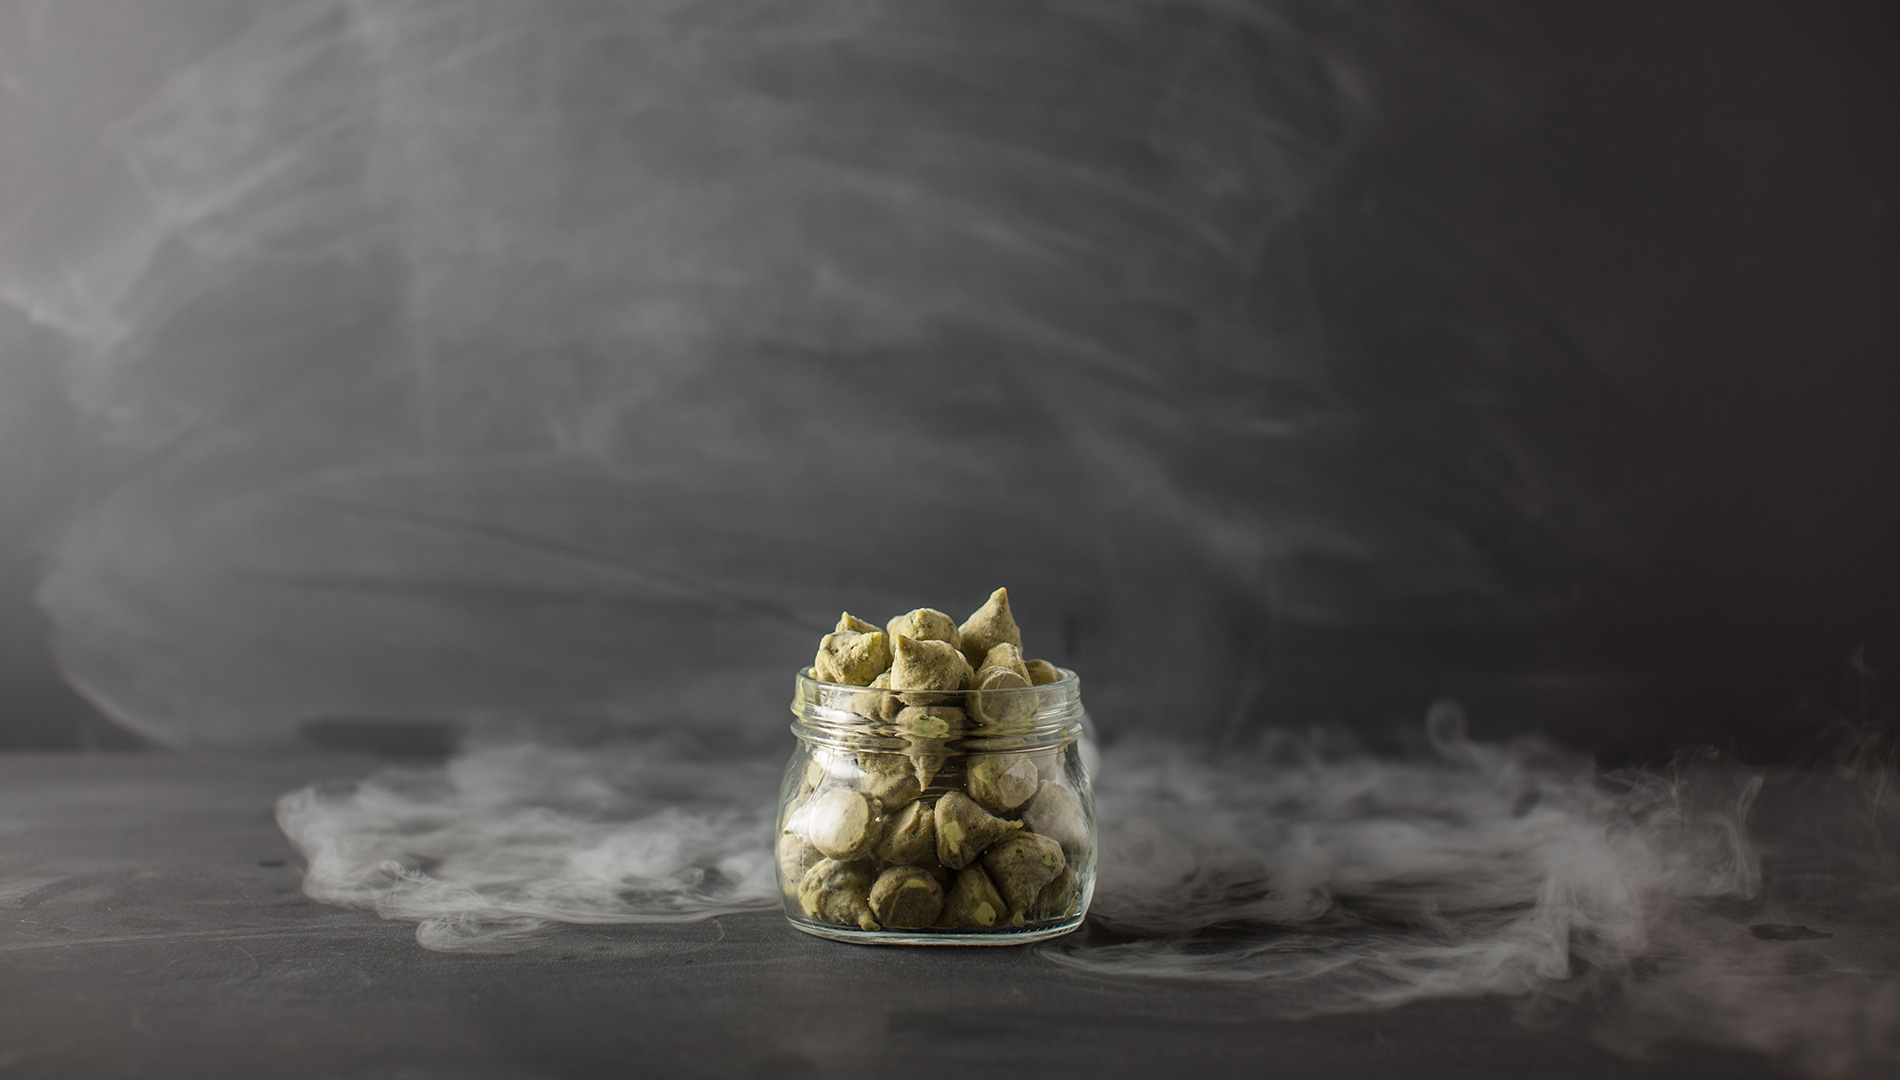
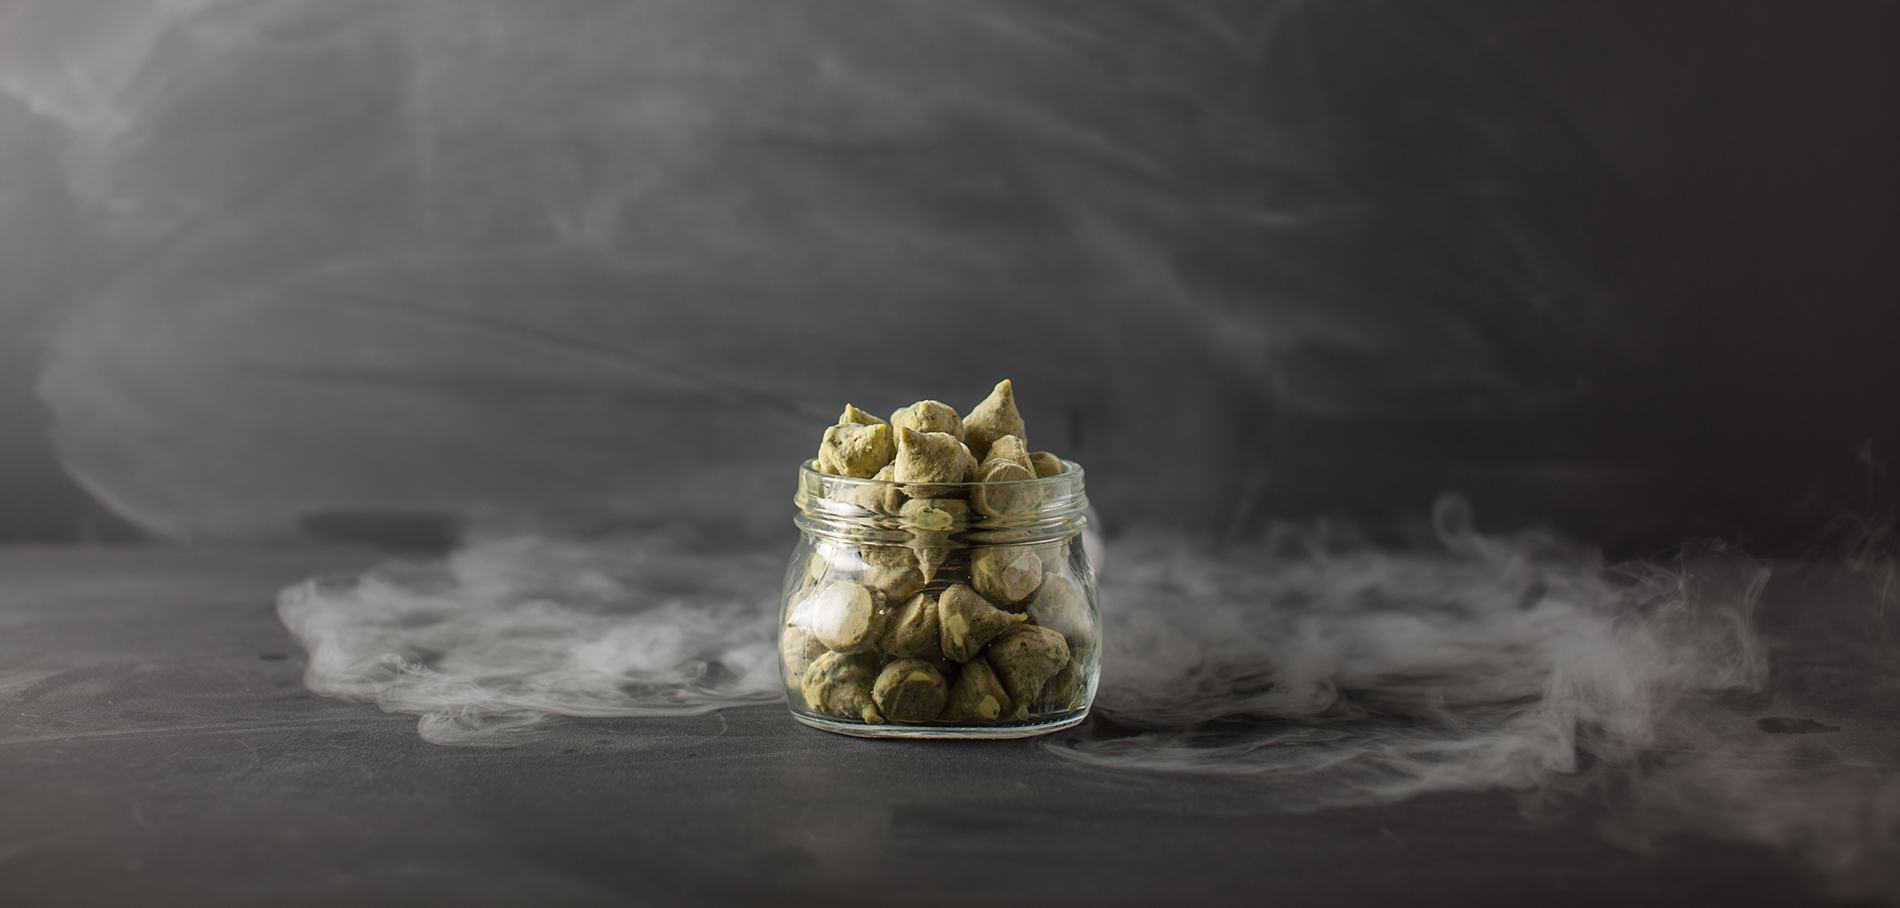
ändrat bilder

diff --git a/app.js b/app.js
@@ -18,15 +18,22 @@ app.get('/slider',function(req,res){
 app.get('/contact',function(req,res){
 	res.render('contact.ejs');
 });
-
 app.get('/news',function(req,res){
 	res.render('news.ejs');
 });
 
+app.get('/rena',function(req,res){
+	res.render('rena.ejs');
+});
+
+app.get('/recept',function(req,res){
+	res.render('recept.ejs');
+});
+
 // app.listen(3001, process.env.IP, function() {
 // app.listen(3001, process.env.IP, function() {
-var portSettings = process.env.PORT
-// var portSettings = 3030;
+// var portSettings = process.env.PORT
+var portSettings = 3030;
 
 app.listen(portSettings, process.env.IP, function() {
 	var appConsoleMsg = 'Hemsidan startad: ';

diff --git a/views/css/dropdown.css b/views/css/dropdown.css
@@ -1,0 +1,9 @@
+.navbar-default .navbar-nav > li.dropdown:hover > a, 
+.navbar-default .navbar-nav > li.dropdown:hover > a:hover,
+.navbar-default .navbar-nav > li.dropdown:hover > a:focus {
+    background-color: rgb(231, 231, 231);
+    color: rgb(85, 85, 85);
+}
+li.dropdown:hover > .dropdown-menu {
+    display: block;
+}

diff --git a/views/css/full-slider.css b/views/css/full-slider.css
@@ -4,8 +4,8 @@
  * Licensed under MIT (https://github.com/BlackrockDigital/startbootstrap-full-slider/blob/master/LICENSE)
  */
 
-.carousel-item {
-  height: 100vh;
+ .carousel-item {
+  height: 70vh;
   min-height: 300px;
   background: no-repeat center center scroll;
   -webkit-background-size: cover;

diff --git a/views/css/slider.css b/views/css/slider.css
@@ -161,15 +161,6 @@ html, body {
     min-height: 100%;
 }
 
-footer {
-  /* position: absolute; */
-  /* left: 0; */
-  /* bottom: 0; */
-  width: 100%;
-  background-color: red;
-  color: white;
-  text-align: center;
-}
 
 .fb-page {
   margin: 0 auto;

diff --git a/views/css/news.css b/views/css/news.css
@@ -7,3 +7,11 @@ footer {
   color: white;
   text-align: center;
 }
+
+body {
+  background-color: #eeeeee;
+}
+
+section {
+  padding: 2rem 0;
+}

diff --git a/views/css/sortiment.css b/views/css/sortiment.css
@@ -1,0 +1,4 @@
+img-thumbnail {
+  height: 400px;
+  width: 400px;
+}
